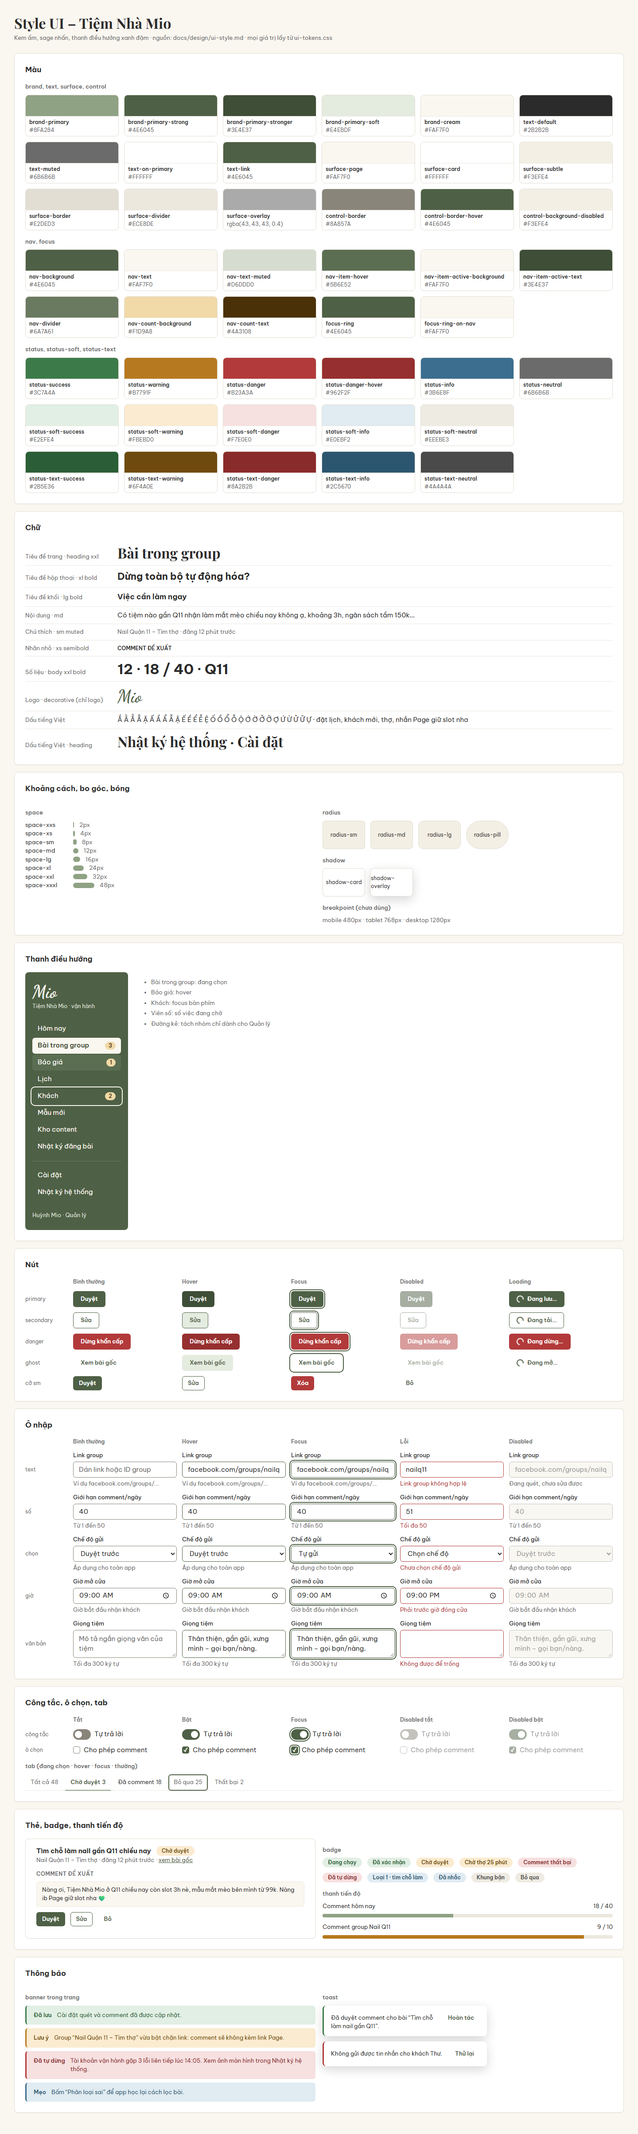
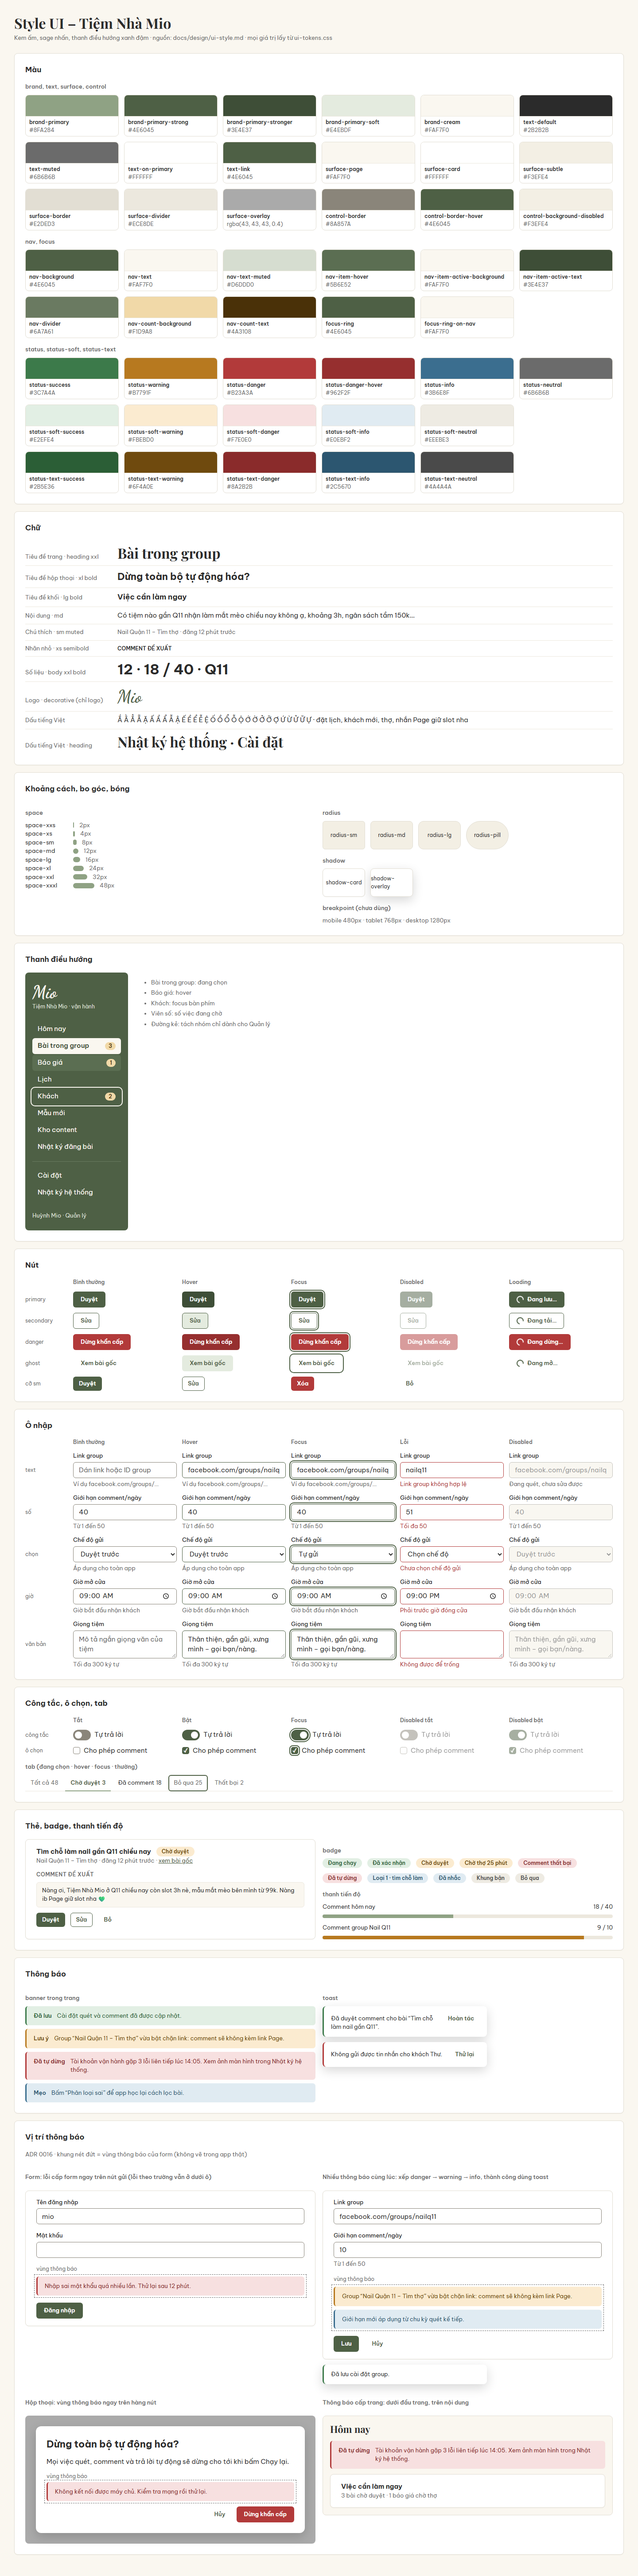
docs(design): add message placement rules to ui style
Add ADR 0016-form-message-placement, the 'Vị trí thông báo' section and preview, and matching checks in the ui-design and design-review skills.

diff --git a/docs/design/ui-style-preview.html b/docs/design/ui-style-preview.html
@@ -144,6 +144,18 @@
     .progress { grid-column: 1 / -1; height: var(--space-sm); background: var(--color-surface-divider); border-radius: var(--radius-pill); overflow: hidden; }
     .progress > div { height: 100%; background: var(--color-brand-primary); }
     .progress.is-near-limit > div { background: var(--color-status-warning); }
+
+    /* Vị trí thông báo */
+    .demo { display: flex; flex-direction: column; gap: var(--space-md); }
+    .demo-form { display: flex; flex-direction: column; gap: var(--space-lg); }
+    .msg-area { display: flex; flex-direction: column; gap: var(--space-sm); outline: var(--border-width-default) dashed var(--color-status-neutral); outline-offset: var(--space-xs); }
+    .msg-area .alert + .alert { margin-top: 0; }
+    .msg-label { font-size: var(--font-size-xs); color: var(--color-text-muted); margin-bottom: calc(var(--space-sm) * -1); }
+    .demo-page { background: var(--color-surface-page); border: var(--border-width-default) solid var(--color-surface-border); border-radius: var(--radius-md); padding: var(--space-lg); display: flex; flex-direction: column; gap: var(--space-md); }
+    .demo-page .t-page { font-size: var(--font-size-xl); }
+    .demo-backdrop { background: var(--color-surface-overlay); border-radius: var(--radius-md); padding: var(--space-xl); }
+    .demo-dialog { background: var(--color-surface-card); border-radius: var(--radius-lg); box-shadow: var(--shadow-overlay); padding: var(--space-xl); display: flex; flex-direction: column; gap: var(--space-md); }
+    .demo-actions { display: flex; justify-content: flex-end; gap: var(--space-sm); }
   </style>
 </head>
 <body>
@@ -433,6 +445,57 @@
         <h3>toast</h3>
         <div class="toast toast-success"><span>Đã duyệt comment cho bài “Tìm chỗ làm nail gần Q11”.</span><button class="btn btn-ghost btn-sm">Hoàn tác</button></div>
         <div class="toast toast-danger"><span>Không gửi được tin nhắn cho khách Thư.</span><button class="btn btn-ghost btn-sm">Thử lại</button></div>
+      </div>
+    </div>
+  </section>
+
+  <section>
+    <h2>Vị trí thông báo</h2>
+    <p class="muted">ADR 0016 · khung nét đứt = vùng thông báo của form (không vẽ trong app thật)</p>
+    <div class="cols-2" style="margin-top: var(--space-lg)">
+      <div class="demo">
+        <h3>Form: lỗi cấp form ngay trên nút gửi (lỗi theo trường vẫn ở dưới ô)</h3>
+        <div class="card demo-form">
+          <label class="field">Tên đăng nhập<input class="input" value="mio"></label>
+          <label class="field">Mật khẩu<input class="input" type="password"></label>
+          <span class="msg-label">vùng thông báo</span>
+          <div class="msg-area"><div class="alert alert-danger" role="alert">Nhập sai mật khẩu quá nhiều lần. Thử lại sau 12 phút.</div></div>
+          <div class="row"><button class="btn btn-primary">Đăng nhập</button></div>
+        </div>
+      </div>
+      <div class="demo">
+        <h3>Nhiều thông báo cùng lúc: xếp danger → warning → info, thành công dùng toast</h3>
+        <div class="card demo-form">
+          <label class="field">Link group<input class="input" value="facebook.com/groups/nailq11"></label>
+          <label class="field">Giới hạn comment/ngày<input class="input" value="10"><span class="hint">Từ 1 đến 50</span></label>
+          <span class="msg-label">vùng thông báo</span>
+          <div class="msg-area">
+            <div class="alert alert-warning" role="alert">Group “Nail Quận 11 – Tìm thợ” vừa bật chặn link: comment sẽ không kèm link Page.</div>
+            <div class="alert alert-info" role="status">Giới hạn mới áp dụng từ chu kỳ quét kế tiếp.</div>
+          </div>
+          <div class="row"><button class="btn btn-primary">Lưu</button><button class="btn btn-ghost">Hủy</button></div>
+        </div>
+        <div class="toast toast-success"><span>Đã lưu cài đặt group.</span></div>
+      </div>
+      <div class="demo">
+        <h3>Hộp thoại: vùng thông báo ngay trên hàng nút</h3>
+        <div class="demo-backdrop">
+          <div class="demo-dialog">
+            <span class="t-dialog">Dừng toàn bộ tự động hóa?</span>
+            <p>Mọi việc quét, comment và trả lời tự động sẽ dừng cho tới khi bấm Chạy lại.</p>
+            <span class="msg-label">vùng thông báo</span>
+            <div class="msg-area"><div class="alert alert-danger" role="alert">Không kết nối được máy chủ. Kiểm tra mạng rồi thử lại.</div></div>
+            <div class="demo-actions"><button class="btn btn-ghost">Hủy</button><button class="btn btn-danger">Dừng khẩn cấp</button></div>
+          </div>
+        </div>
+      </div>
+      <div class="demo">
+        <h3>Thông báo cấp trang: dưới đầu trang, trên nội dung</h3>
+        <div class="demo-page">
+          <span class="t-page">Hôm nay</span>
+          <div class="alert alert-danger" role="alert"><b>Đã tự dừng</b>Tài khoản vận hành gặp 3 lỗi liên tiếp lúc 14:05. Xem ảnh màn hình trong Nhật ký hệ thống.</div>
+          <div class="card"><span class="card-title">Việc cần làm ngay</span><p class="muted">3 bài chờ duyệt · 1 báo giá chờ thợ</p></div>
+        </div>
       </div>
     </div>
   </section>

diff --git a/docs/decisions/0016-form-message-placement.md b/docs/decisions/0016-form-message-placement.md
@@ -1,0 +1,51 @@
+# 0016 – Vị trí và câu chữ thông báo trên màn hình
+
+- Ngày: 2026-10-31
+- Trạng thái: chấp nhận
+- Liên quan: docs/design/ui-style.md mục "Vị trí thông báo"; ADR 0008-ui-style-direction; tính năng `auth` (phase-0) – góp ý duyệt UI màn Đăng nhập, Đổi mật khẩu; skill `ui-design`, `design-review`
+
+## Bối cảnh
+
+- `ui-style.md` đã có kiểu banner, toast và vị trí lỗi theo trường (dưới ô), nhưng chưa quy định **thông báo cấp form** đặt ở đâu: lỗi nghiệp vụ (sai mật khẩu, bị khóa), lỗi hệ thống, mất mạng, thông báo info khi vừa chuyển tới trang.
+- Mockup `auth` lần đầu đặt banner ở đầu form. Khi duyệt, người dùng muốn banner nằm sau ô nhập cuối, ngay trên nút gửi: người dùng đang nhìn vào nút vừa bấm, banner ở đầu form dễ bị bỏ qua, nhất là form dài phải cuộn.
+- Cùng lần duyệt lộ ra vấn đề câu chữ: thông báo `LOGIN_LOCKED` "Đăng nhập sai quá nhiều lần…" dùng chung cho màn Đăng nhập và Đổi mật khẩu, đặt ở màn Đổi mật khẩu thì khó hiểu. Đã đổi thành "Nhập sai mật khẩu quá nhiều lần. Thử lại sau <n> phút."
+- Phần lớn màn hình của các giai đoạn sau là form cài đặt dài và hộp thoại xác nhận, nên cần một quy ước chung để không lặp lại hai vấn đề trên ở từng tính năng.
+
+## Các phương án
+
+### A. Banner ở đầu form
+- Ưu: kiểu phổ biến; người dùng thấy ngay khi trang vừa mở (hợp với thông báo info khi chuyển trang tới).
+- Nhược: sau khi bấm gửi, mắt người dùng đang ở nút, phải nhìn ngược lên mới thấy; form dài cuộn thì banner nằm ngoài khung nhìn; tách xa nút làm người dùng tưởng chưa có gì xảy ra.
+
+### B. Banner ngay trên hàng nút gửi (vùng thông báo của form)
+- Ưu: kết quả hiện ngay cạnh chỗ vừa bấm; form dài vẫn thấy vì nút luôn ở trong khung nhìn lúc bấm; một vị trí cố định cho mọi loại thông báo cấp form, kể cả trong hộp thoại.
+- Nhược: thông báo info khi vừa mở trang (ví dụ "Bạn đã đăng xuất") nằm dưới các ô, kém nổi hơn đặt ở đầu; form rất dài thì người vừa mở trang có thể chưa thấy ngay.
+
+### C. Chỉ dùng toast cho mọi thông báo cấp form
+- Ưu: không chiếm chỗ trong form, không làm form nhảy bố cục.
+- Nhược: toast tự ẩn, không hợp với lỗi cần đọc kỹ (bị khóa bao nhiêu phút, sai địa chỉ app); toast ở góc dưới phải xa form; lẫn với toast kết quả thao tác khác.
+
+## Quyết định
+
+Chọn B (người dùng chốt khi duyệt UI `auth` ngày 2026-10-31) vì thông báo cấp form là phản hồi của thao tác gửi, nên đặt ở nơi người dùng vừa thao tác. Kèm các quy tắc (chi tiết ở `ui-style.md` mục "Vị trí thông báo"):
+
+- Lỗi theo trường: dưới ô, thay chỗ gợi ý (giữ như cũ).
+- Thông báo cấp form: một vùng thông báo duy nhất, ngay sau trường cuối cùng, trước hàng nút gửi.
+  - Hiện mọi thông báo còn đúng, mỗi thông báo một banner, xếp theo mức độ danger → warning → info.
+  - Mỗi lần bấm gửi: xóa hết banner cũ trước khi hiện kết quả mới.
+  - Không lặp: cùng nội dung chỉ một banner.
+- Hộp thoại: cùng quy tắc, vùng thông báo ngay trên hàng nút. Gửi lỗi mà hộp thoại đã đóng thì thông báo về vùng thông báo của form gốc.
+- Thông báo cấp trang (trạng thái hệ thống, không gắn với form nào, ví dụ "Đã tự dừng"): dưới đầu trang, trên nội dung.
+- Thành công: toast; không dùng banner success trong form, trừ khi thông báo phải ở lại trên trang.
+- Câu chữ: một thông báo dùng chung cho nhiều màn hình hoặc nhiều endpoint phải đúng nghĩa ở mọi chỗ nó hiện; không đúng thì viết câu trung tính hoặc tách câu riêng.
+
+## Hệ quả
+
+- Được:
+  - mọi form có cùng một chỗ đọc kết quả, người dùng không phải đi tìm;
+  - `ui-design` và `design-review` có tiêu chí cụ thể để kiểm, không phụ thuộc trí nhớ người duyệt;
+  - code web chỉ cần một component vùng thông báo cho form và hộp thoại.
+- Mất / rủi ro:
+  - thông báo info khi vừa chuyển tới trang (ví dụ "Phiên đăng nhập đã hết hạn…") kém nổi hơn đặt ở đầu form; chấp nhận vì các form có thông báo này đều ngắn;
+  - vùng thông báo xuất hiện làm nút gửi dịch xuống; người dùng bấm lại ngay có thể trượt (chấp nhận, form không có thao tác bấm liên tiếp);
+  - phải sửa lại các mockup đã vẽ trước quy ước nếu có (hiện chỉ có `auth`, đã theo quy ước).

diff --git a/docs/design/ui-style.md b/docs/design/ui-style.md
@@ -176,8 +176,26 @@ breakpoint:
 - **Thông báo:**
   - banner trong trang: nền `color-status-soft-*`, chữ `color-status-text-*`, vạch trái `border-width-accent` màu `color-status-*`;
   - toast: góc dưới phải, nền thẻ, bóng `shadow-overlay`, vạch trái như banner; tự ẩn sau vài giây trừ loại danger.
+  - Đặt ở đâu: mục "Vị trí thông báo".
 - **Badge:** nền `color-status-soft-*`, chữ `color-status-text-*`, bo `radius-pill`. Nhóm: success (đã xong, đang chạy), warning (chờ duyệt, chờ thợ), danger (thất bại, bị dừng), info (loại bài, đã nhắc), neutral (khung bận, bỏ qua).
 - **Thanh tiến độ:** rãnh `color-surface-divider`, phần đã dùng `color-brand-primary`; gần chạm giới hạn (≥ 90%) đổi sang `color-status-warning`. Luôn kèm số "18 / 40".
+
+## Vị trí thông báo
+
+Quy ước chung cho mọi màn hình (ADR `0016-form-message-placement`). Mockup minh họa trong `ui-style-preview.html` mục "Vị trí thông báo".
+
+- **Lỗi theo trường:** ngay dưới ô, thay chỗ gợi ý (mục Ô nhập).
+- **Thông báo cấp form** (kết quả gửi form không gắn với một trường: lỗi nghiệp vụ, bị khóa, lỗi hệ thống, mất mạng; thông báo info khi vừa chuyển tới trang):
+  - một **vùng thông báo** duy nhất, ngay sau trường cuối cùng, trước hàng nút gửi;
+  - hiện mọi thông báo còn đúng, mỗi thông báo một banner, xếp theo mức độ danger → warning → info, cách nhau `space-sm`;
+  - mỗi lần bấm gửi: xóa hết banner cũ trước khi hiện kết quả mới;
+  - không lặp: cùng nội dung chỉ một banner;
+  - banner có `role="alert"` (danger, warning) hoặc `role="status"` (info) để trình đọc màn hình đọc ngay.
+- **Hộp thoại:** cùng quy tắc, vùng thông báo ngay trên hàng nút. Gửi lỗi mà hộp thoại đã đóng (ví dụ Đổi mật khẩu) thì thông báo về vùng thông báo của form gốc.
+- **Thông báo cấp trang** (trạng thái hệ thống, không gắn với form nào, ví dụ "Đã tự dừng"): banner dưới đầu trang, trên nội dung.
+- **Thành công:** toast; không dùng banner success trong form, trừ khi thông báo phải ở lại trên trang.
+- **Lỗi khi thao tác không có form** (nút trong danh sách, công tắc có hiệu lực ngay): toast danger.
+- **Câu chữ:** một thông báo dùng chung cho nhiều màn hình hoặc nhiều endpoint phải đúng nghĩa ở mọi chỗ nó hiện; không đúng thì viết câu trung tính hoặc tách câu riêng.
 
 ## Trạng thái tương tác
 
@@ -199,3 +217,4 @@ breakpoint:
 ## Lịch sử thay đổi
 
 - 2026-10-29: tạo mới
+- 2026-10-31: thêm mục "Vị trí thông báo" (không đổi token) – lý do: góp ý duyệt UI `auth`, banner ở đầu form dễ bị bỏ qua và câu thông báo dùng chung sai nghĩa ở màn khác; ADR `0016-form-message-placement`

diff --git a/.claude/skills/design-review/checklists/design-review.md b/.claude/skills/design-review/checklists/design-review.md
@@ -9,10 +9,12 @@
 - [ ] Không mâu thuẫn với `docs/design/db-schema.md`, `docs/design/api/*.md`, thiết kế đã duyệt của tính năng khác.
 - [ ] Tên bảng, cột, endpoint, mã lỗi theo `CLAUDE.md` mục `## Quy ước`.
 - [ ] Mockup khớp thiết kế: trường, thông báo lỗi nguyên văn, phân quyền.
+- [ ] Mockup và thiết kế đặt thông báo đúng `docs/design/ui-style.md` mục "Vị trí thông báo" (ADR 0016): lỗi cấp form ở vùng thông báo ngay trên hàng nút gửi, không ở đầu form.
 
 ## Rõ ràng
 - [ ] Không có câu hiểu được theo hai cách (ví dụ "thông báo phù hợp", "xử lý lỗi").
 - [ ] Mọi trường nhập có kiểu, bắt buộc, khoảng/định dạng, thông báo lỗi nguyên văn.
+- [ ] Thông báo dùng chung cho nhiều màn hình hoặc nhiều endpoint (cùng mã lỗi) đúng nghĩa ở mọi chỗ nó hiện (ADR 0016); không thì viết câu trung tính hoặc tách câu riêng.
 - [ ] Mọi tham số có mặc định và khoảng hợp lệ.
 
 ## Đủ trường hợp
